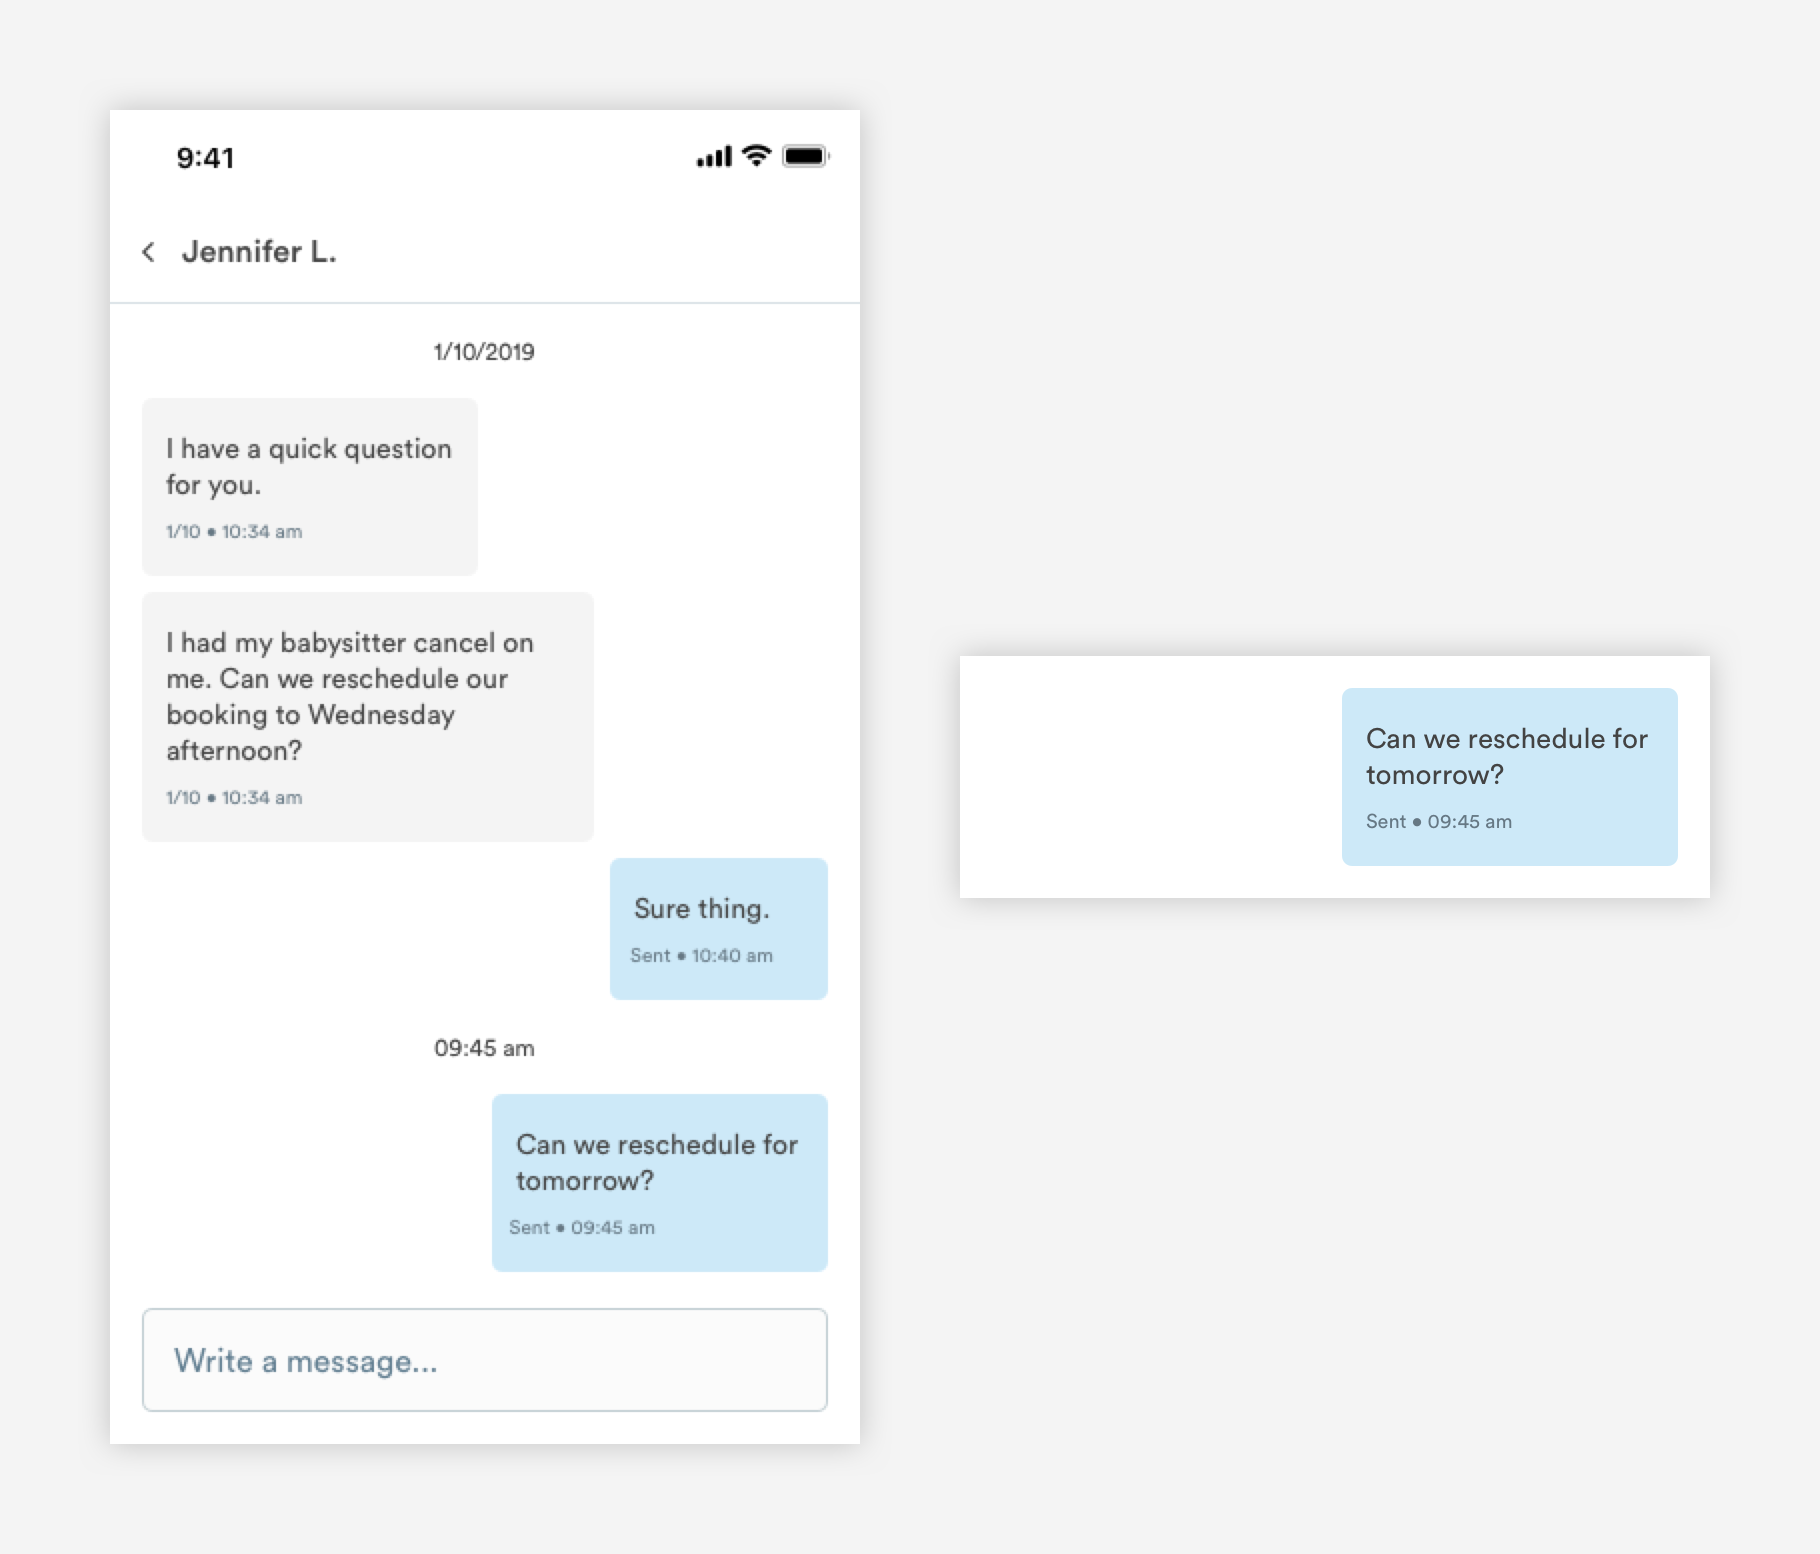
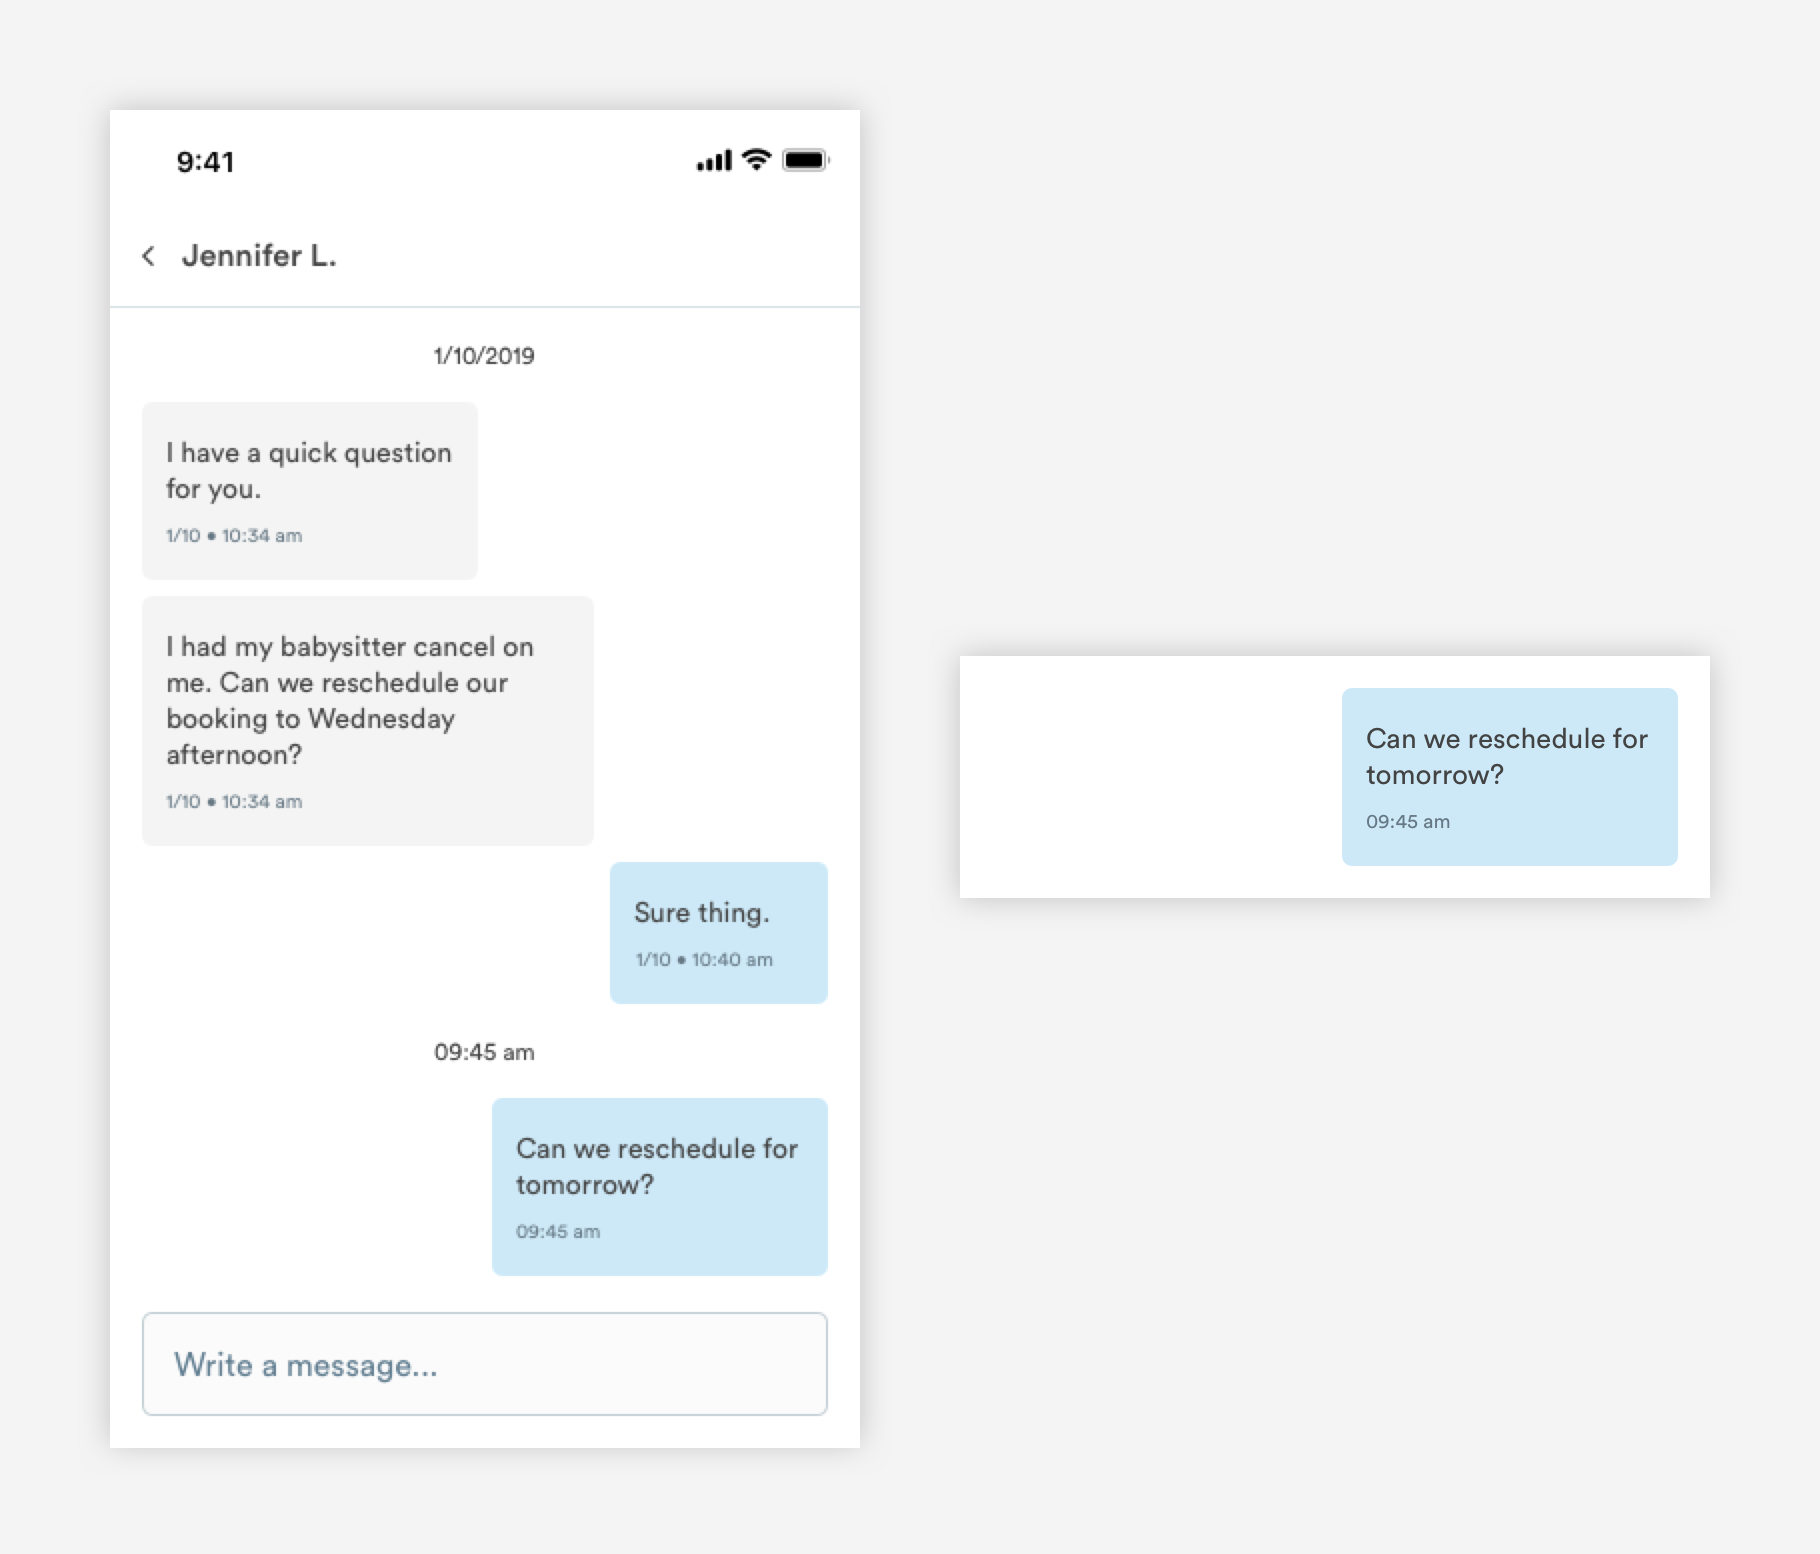
GitBook: [master] one page and 4 assets modified

diff --git a/native/message-threads.md b/native/message-threads.md
@@ -29,7 +29,7 @@ When a user is sending the message to another message, that message will be popu
 1. Background
 
 ```text
-background: blue-light 
+background: blue-medium-light 
 border-radius: 5px
 
 m-message-sent-long:
@@ -55,7 +55,8 @@ padding-right: 12px
 padding-bottom: 8px
 ```
 
-3. Time Stamp \(a-text-label\)
+3. Time Stamp \(a-text-label\)  
+After 24 hours, the message time stamp will reflect the date and time it was sent.
 
 ```text
 font-weight: book
@@ -100,7 +101,8 @@ padding-right: 12px
 padding-bottom: 8px
 ```
 
-3. Time Stamp \(a-text-label\)
+3. Time Stamp \(a-text-label\)  
+After 24 hours, the message time stamp will reflect the date and time it was received.
 
 ```text
 font-weight: book
